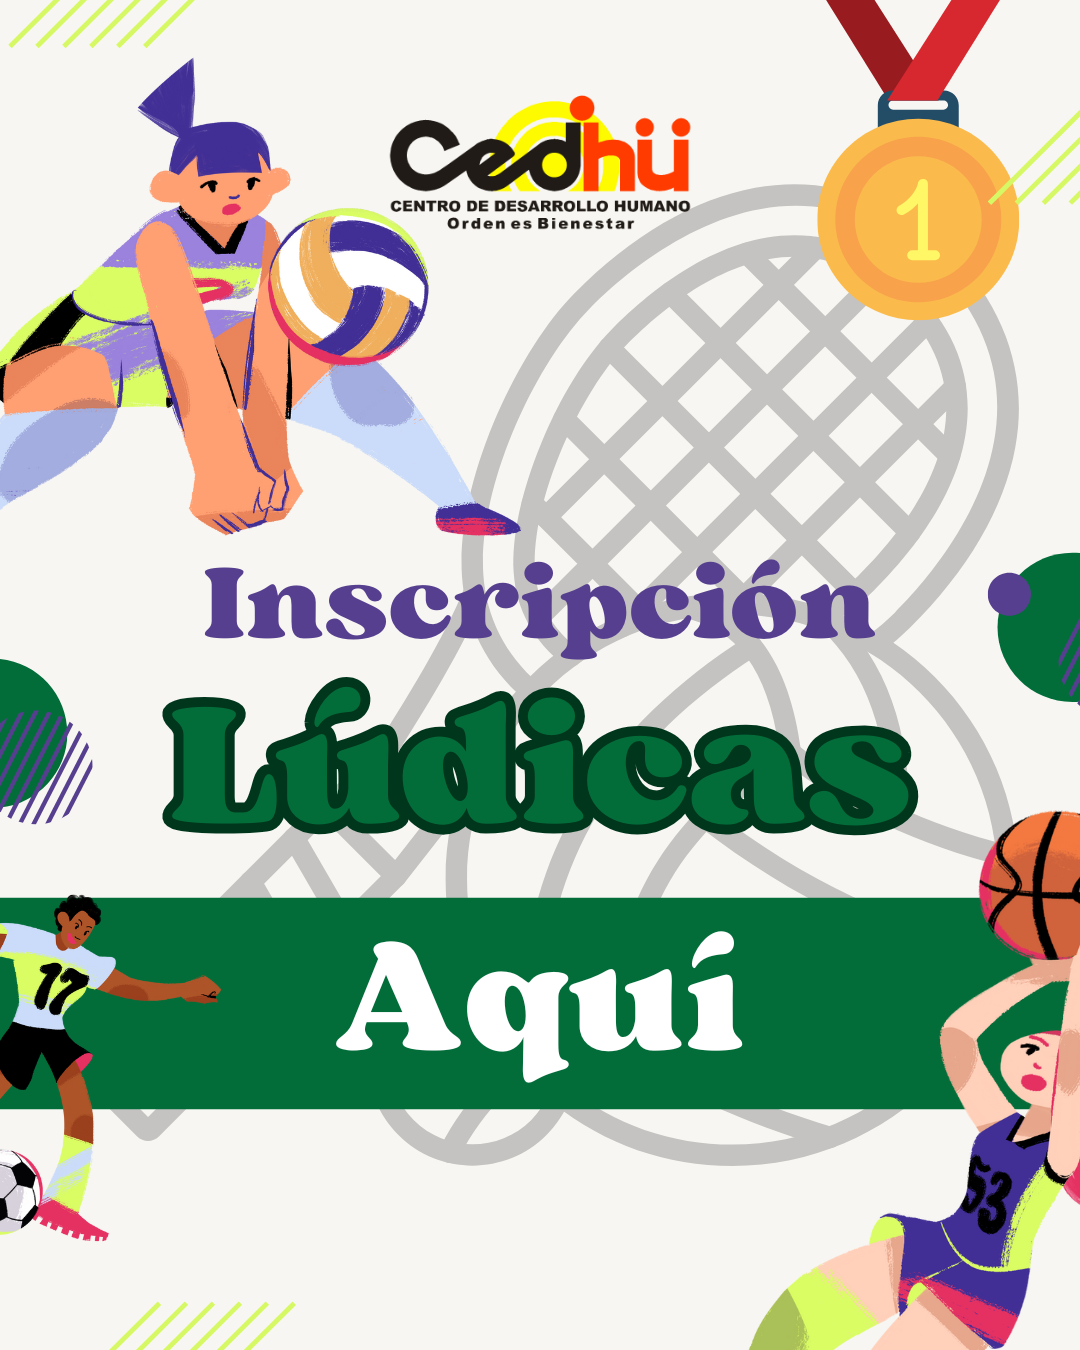
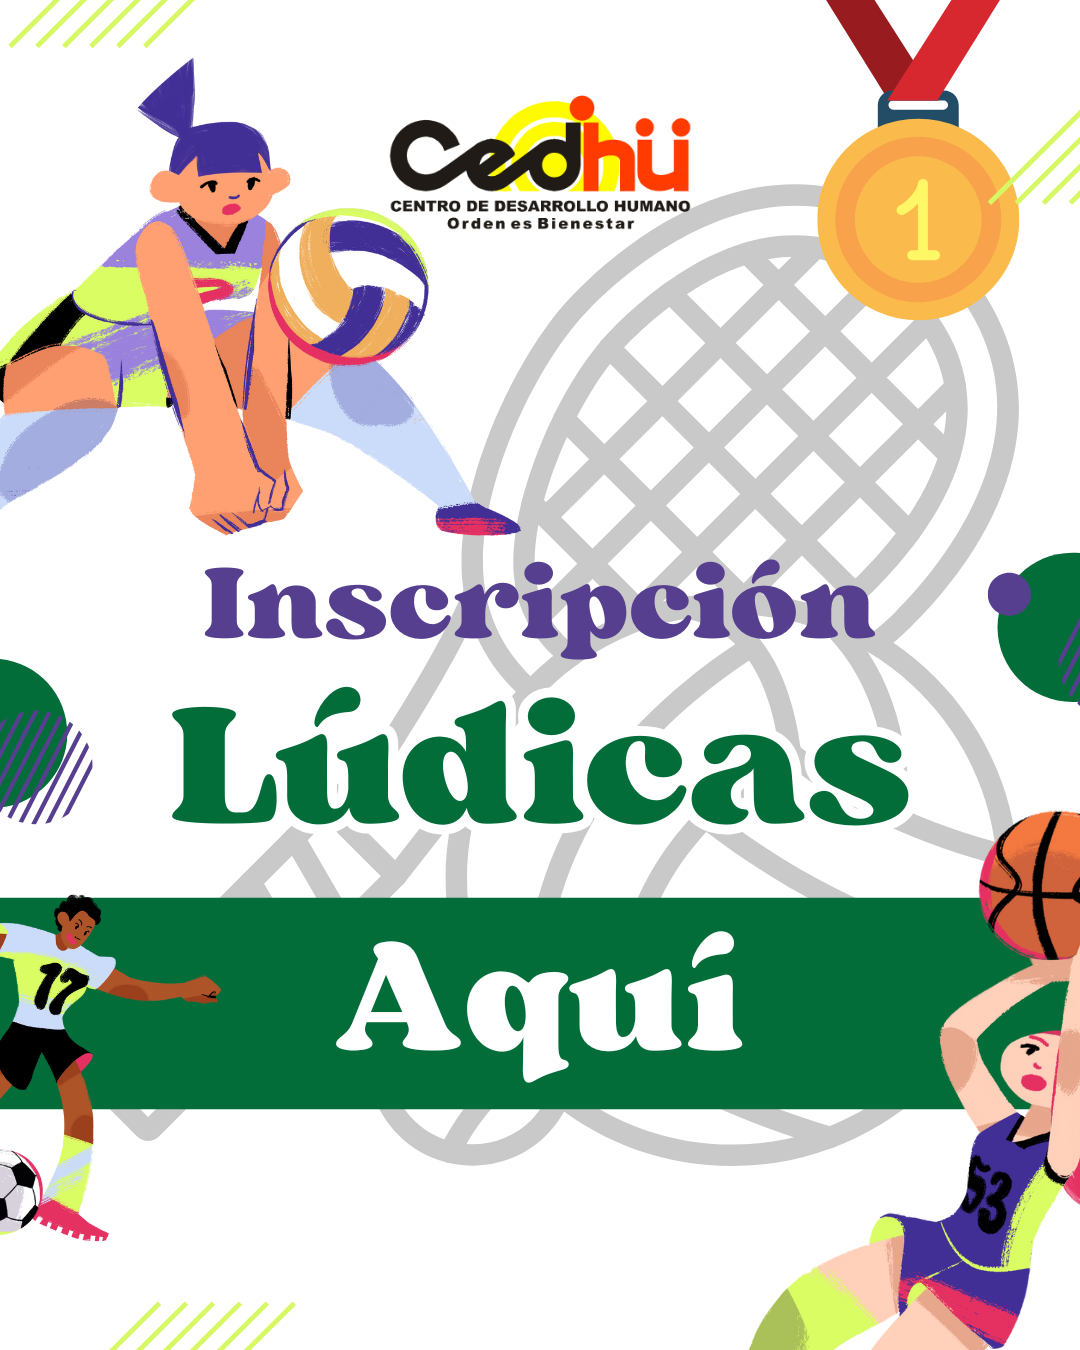
Se agrega noticia cedhu

Changed region(s): [[0.1528, 0.4978, 0.8556, 0.6222]]

diff --git a/core/templates/core/home.html b/core/templates/core/home.html
@@ -73,6 +73,10 @@ CEDHU{% endblock %} {% block content %}
     <div class="news-grid">
 
       <article class="news-card">
+        <img src="{% static 'core/img/inscripcion-ludicas.png' %}" alt="calendario de ludicas cedhu" onclick="openModal(this)">
+      </article>
+
+      <article class="news-card">
         <a href="{% url 'ludicas' %}">
           <img src="{% static 'core/img/inscripcion-ludicas.png' %}" alt="Útiles escolares">
         </a>
